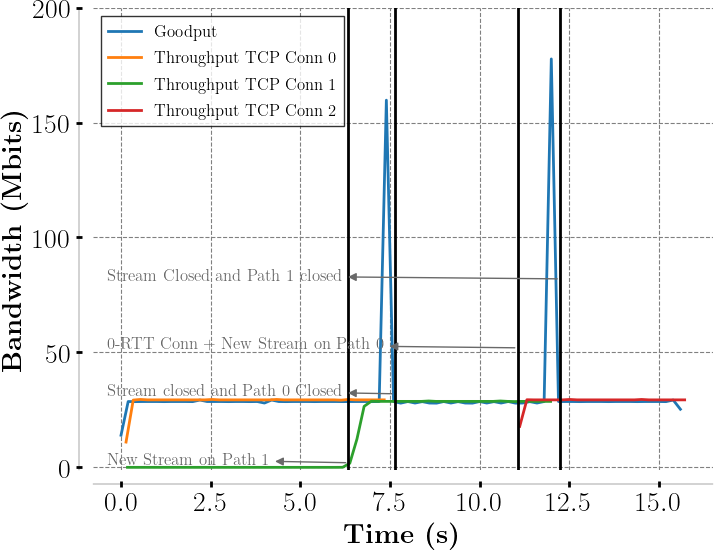
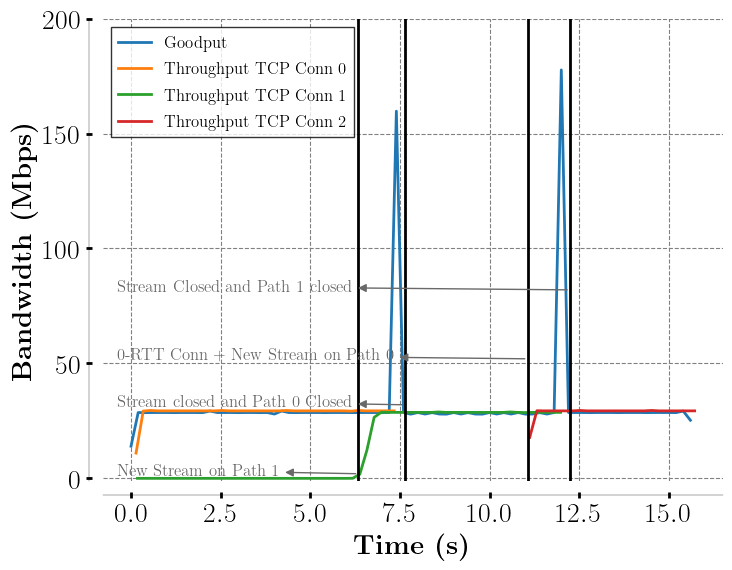
up figures

diff --git a/pretty_plotify/analyze_trace.py b/pretty_plotify/analyze_trace.py
@@ -188,10 +188,10 @@ if __name__ == "__main__":
     axis_aesthetic(ax3)
 
     ax1.set_xlabel(latex_label("Time (s)"), fontsize=24)
-    ax1.set_ylabel(latex_label("Bandwidth (Mbits)"), fontsize=24)
+    ax1.set_ylabel(latex_label("Bandwidth (Mbps)"), fontsize=24)
 
     ax3.set_xlabel(latex_label("Time (s)"), fontsize=24)
-    ax3.set_ylabel(latex_label("Bandwidth (Mbits)"), fontsize=24)
+    ax3.set_ylabel(latex_label("Bandwidth (Mbps)"), fontsize=24)
 
     subplots_adjust(hspace=0.4)
 

diff --git a/pretty_plotify/plot_aggregate_dual.py b/pretty_plotify/plot_aggregate_dual.py
@@ -172,7 +172,7 @@ if __name__ == "__main__":
         ax.set_xlim(0, x_max)
         ax.set_ylim(0, 65)
         ax.set_xlabel(latex_label("Time (s)"), fontsize=24)
-        ax.set_ylabel(latex_label("Bandwidth (Mbits)"), fontsize=24)
+        ax.set_ylabel(latex_label("Bandwidth (Mbps)"), fontsize=24)
         ax.grid(True, color='gray', linestyle='dashed', which='major')
 
     axs[0].set_title(latex_label('MPTCP 0.94.7'), fontsize=18)

diff --git a/pretty_plotify/plot_breakage.py b/pretty_plotify/plot_breakage.py
@@ -94,7 +94,7 @@ if __name__ == "__main__":
     axis_aesthetic(ax)
 
     ax.set_xlabel(latex_label('Time (s)'), fontsize=20)
-    ax.set_ylabel(latex_label('Bandwidth (Mbits)'), fontsize=20)
+    ax.set_ylabel(latex_label('Bandwidth (Mbps)'), fontsize=20)
 
     breakage = parse_time(args.breakage_at)
     plt.axvline(x=(breakage-minimum)/1000000, ymin=0, ymax=0.91, color="k", ls='--', lw=2)

diff --git a/pretty_plotify/plot_aggregate.py b/pretty_plotify/plot_aggregate.py
@@ -165,7 +165,7 @@ if __name__ == "__main__":
     axis_aesthetic(ax=ax)
 
     ax.set_xlabel(latex_label('Time (s)'), fontsize=20)
-    ax.set_ylabel(latex_label('Bandwidth (Mbits)'), fontsize=20)
+    ax.set_ylabel(latex_label('Bandwidth (Mbps)'), fontsize=20)
 
     if(args.oname=="multipath_aggregate"):
         ax.set_ylim(-1, 70)
